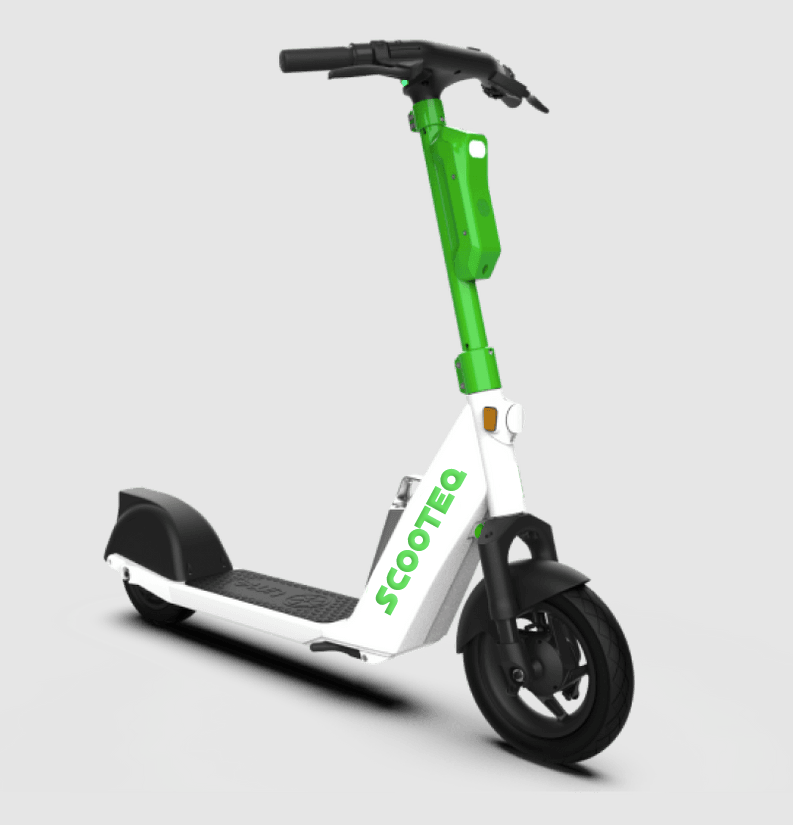
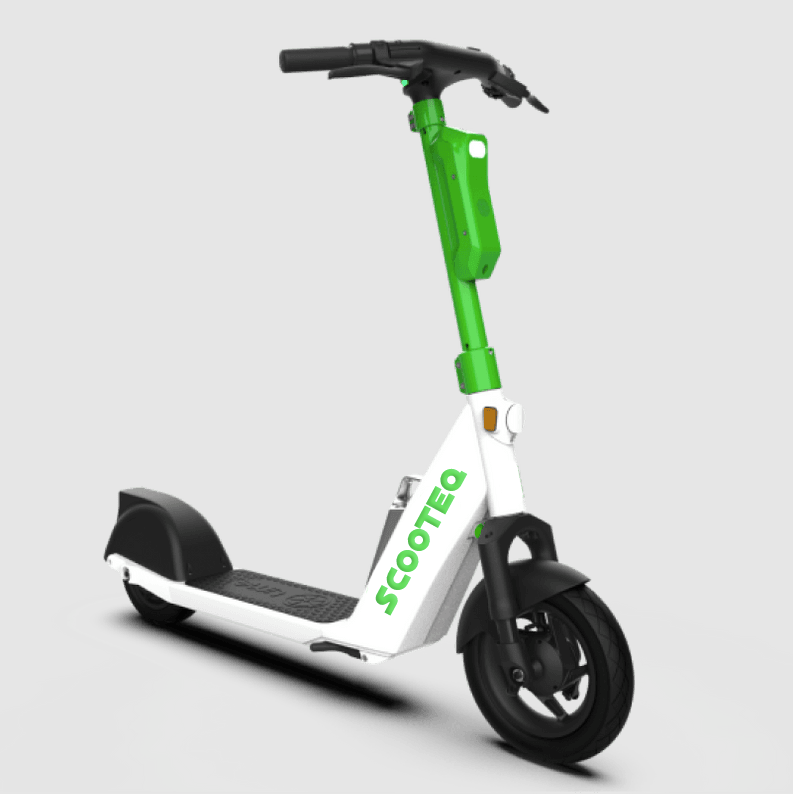
Fixed img sizes

Changed region(s): [[0.1211, 0.0605, 0.8172, 0.9975], [0.3329, 0.0302, 0.575, 0.1209]]

diff --git a/src/app/admin/admin.component.scss b/src/app/admin/admin.component.scss
@@ -2,15 +2,15 @@
   border-radius: 25px;
   padding: 0.25rem;
   background-color: #ffffff;
-  max-width: 100%;
+  width: 100%;
   height: 100%;
 }
 .products {
   border-radius: 25px;
   padding: 0.25rem;
   background-color: #ffffff;
-  max-width: 100%;
-  height: 450px;
+  width: 100%;
+  height: auto;
 }
 .prod_button:hover{
   background-color: rgb(106, 236, 103)
@@ -58,7 +58,4 @@ h1{
 }
 mat-form-field {
   margin-right: 12px;
-}
-.mat-mdc-snack-bar-container .mdc-snackbar__label {
-  color: red;
 }

diff --git a/src/app/admin/admin.component.html b/src/app/admin/admin.component.html
@@ -4,7 +4,7 @@
   <div class="row" style="justify-content: center;">
     <div class="col-sm-6 col-md-4 mb-4">
       <div class="con">
-        <button class="btn prod_button" mat-stroked-button (click)="chargeSmallScooter(); playChargingSound()">
+        <button class="btn prod_button" (click)="chargeSmallScooter(); playChargingSound()">
           <img src="./assets/sc01.png" alt="" class="products">
           <div class="m">
             <div class="text">Charge battery to 100%</div>
